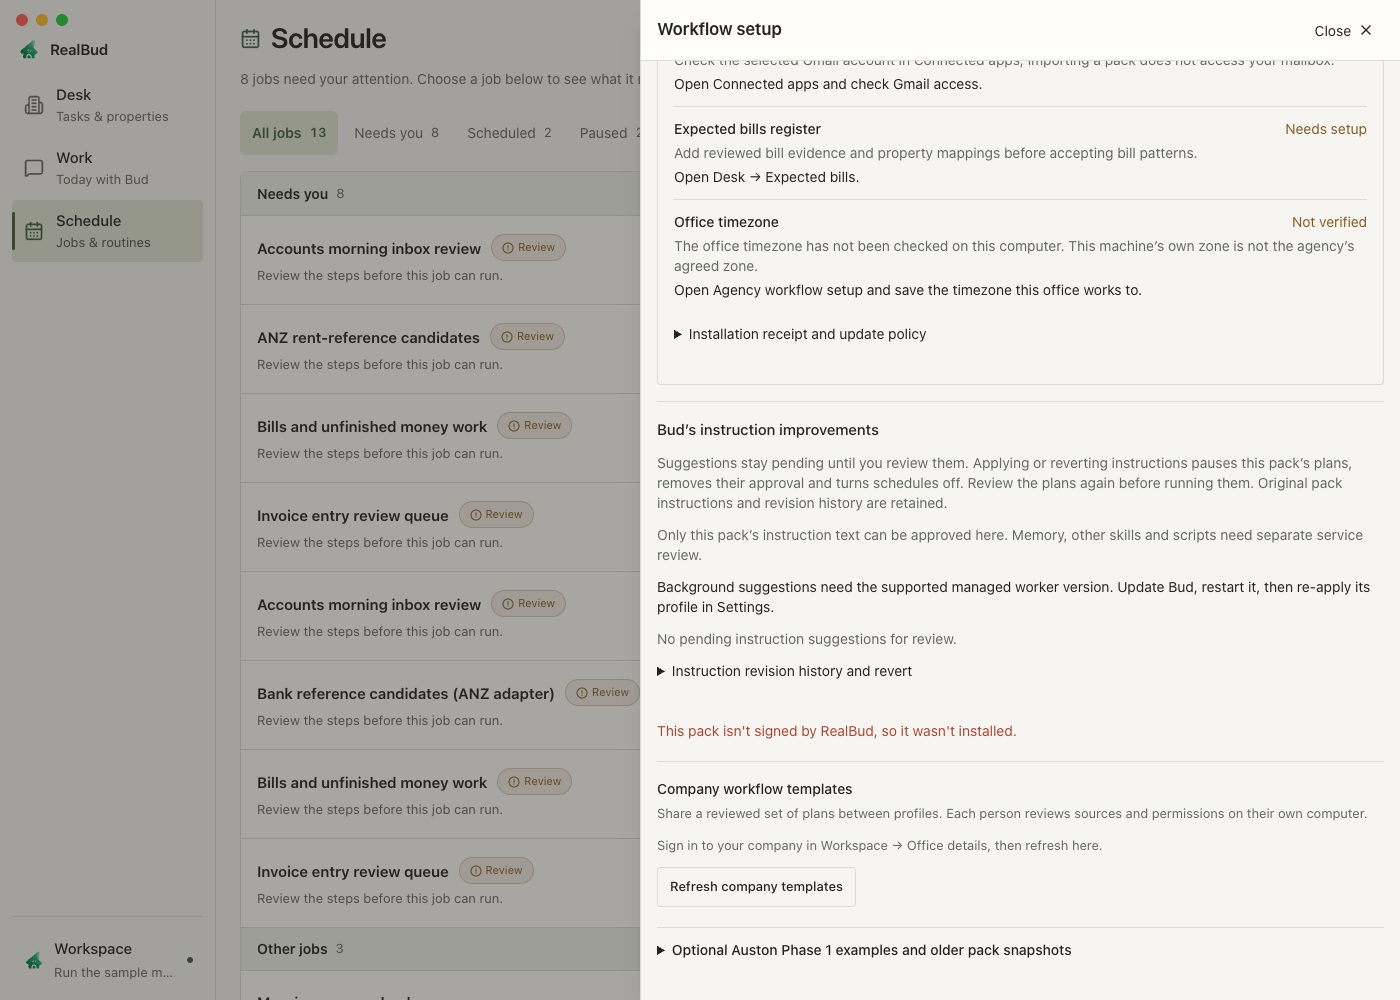
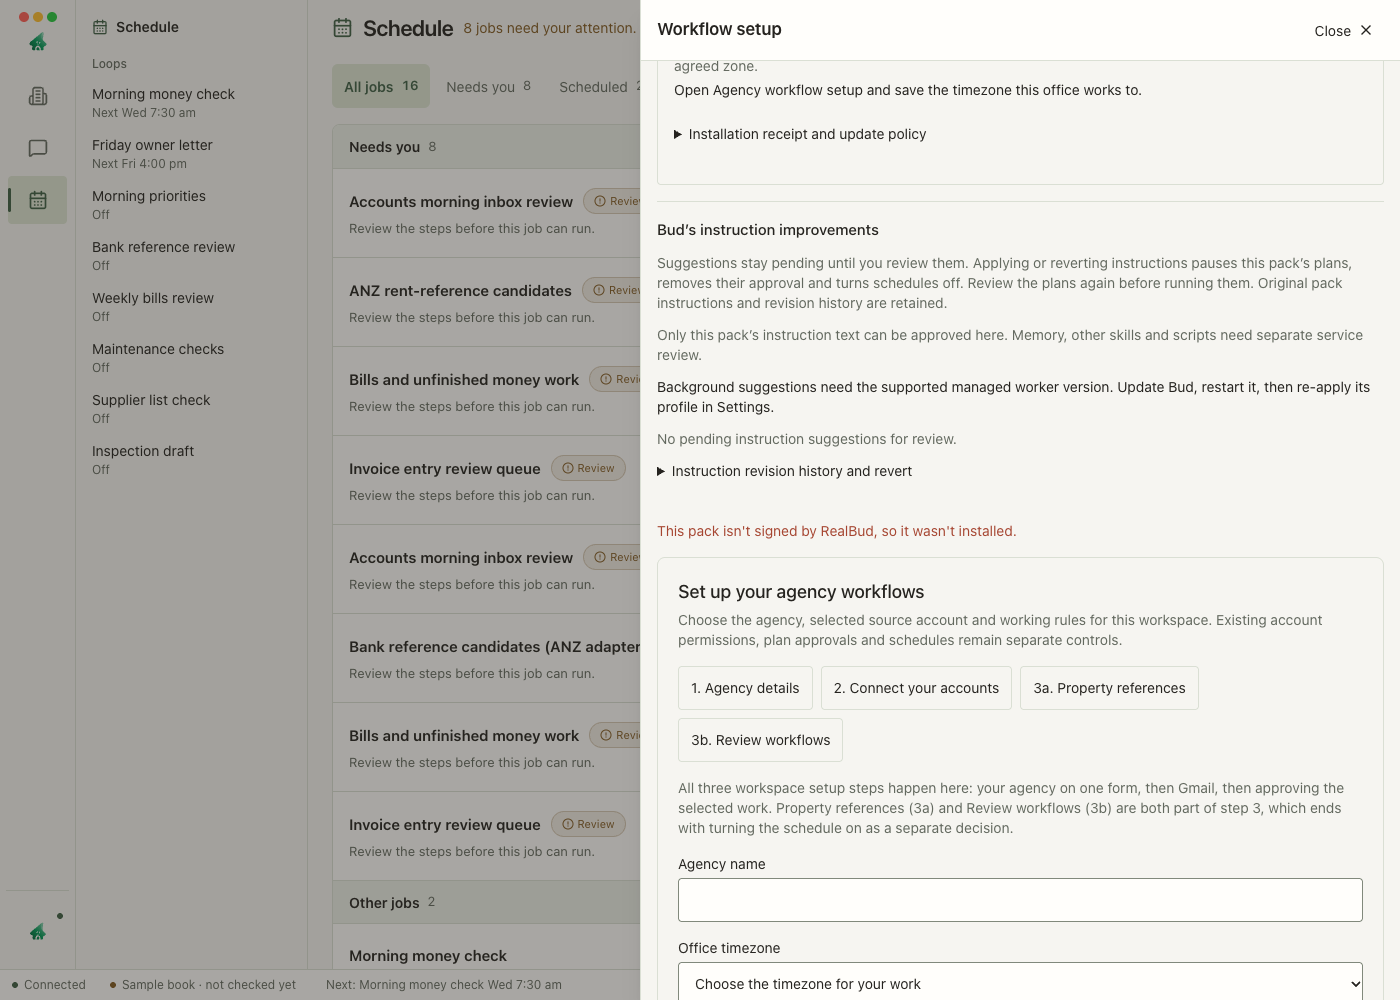
Put Packs from your office first in Workflow setup
The role pack from the office is the setup most people need, so it leads the
drawer; Agency details follows. qa-austin-pack 9/9 and qa-customer-packs pass.

diff --git a/src/components/schedule/CustomerPackSetupCard.tsx b/src/components/schedule/CustomerPackSetupCard.tsx
@@ -97,7 +97,7 @@ export function CustomerPackSetupCard({ onInstalled }: { onInstalled?: () => voi
       <button className={button} disabled={busy} onClick={() => void run(async () => inspect(await api('/api/customer-packs/austin-office/export')))}>Preview Auston office pack</button>
       <button className={button} disabled={busy} onClick={() => void run(() => download('austin-office'))}>Download Auston pack</button>
     </div></details>
-    <p className="text-sm text-ink-secondary">Office core uses your agency’s own identity and reviewed sources. Auston remains a separate customer pack. After import, explicitly choose which pack this agency uses in Agency details above.</p>
+    <p className="text-sm text-ink-secondary">Office core uses your agency’s own identity and reviewed sources. Auston remains a separate customer pack. After import, explicitly choose which pack this agency uses in Agency details below.</p>
     {change&&<CustomerPackChangeReview key={change.previewDigest} preview={change} busy={busy} cancel={()=>setChange(null)} apply={()=>void run(async()=>{
       const body={expectedInstalledDigest:change.installedDigest,expectedInstalledRevision:change.installedRevision,expectedDigest:change.digest,expectedPreviewDigest:change.previewDigest,
         ...(change.action==='upgrade'?{pack:change.pack}:{packId:change.pack.id,installationRevision:change.rollbackRevision})};

diff --git a/src/components/schedule/WorkflowPacksCard.tsx b/src/components/schedule/WorkflowPacksCard.tsx
@@ -120,8 +120,9 @@ export function WorkflowPacksCard({ onInstalled, className }: Props) {
         </div>
       </div>
 
-      <div className="mt-4"><AgencyWorkflowSetup onSaved={onInstalled} /></div>
+      {/* The role pack from the office comes first: importing it is the setup most people need. */}
       <CustomerPackSetupCard onInstalled={async () => { await refresh(); await onInstalled?.(); }} />
+      <div className="mt-4"><AgencyWorkflowSetup onSaved={onInstalled} /></div>
       <CompanyWorkflowTemplates onInstalled={async () => { await refresh(); await onInstalled?.(); }} />
       <details className="mt-5 border-t border-line pt-3">
         <summary className="min-h-11 cursor-pointer text-sm font-medium text-ink">Optional Auston Phase 1 examples and older pack snapshots</summary>
